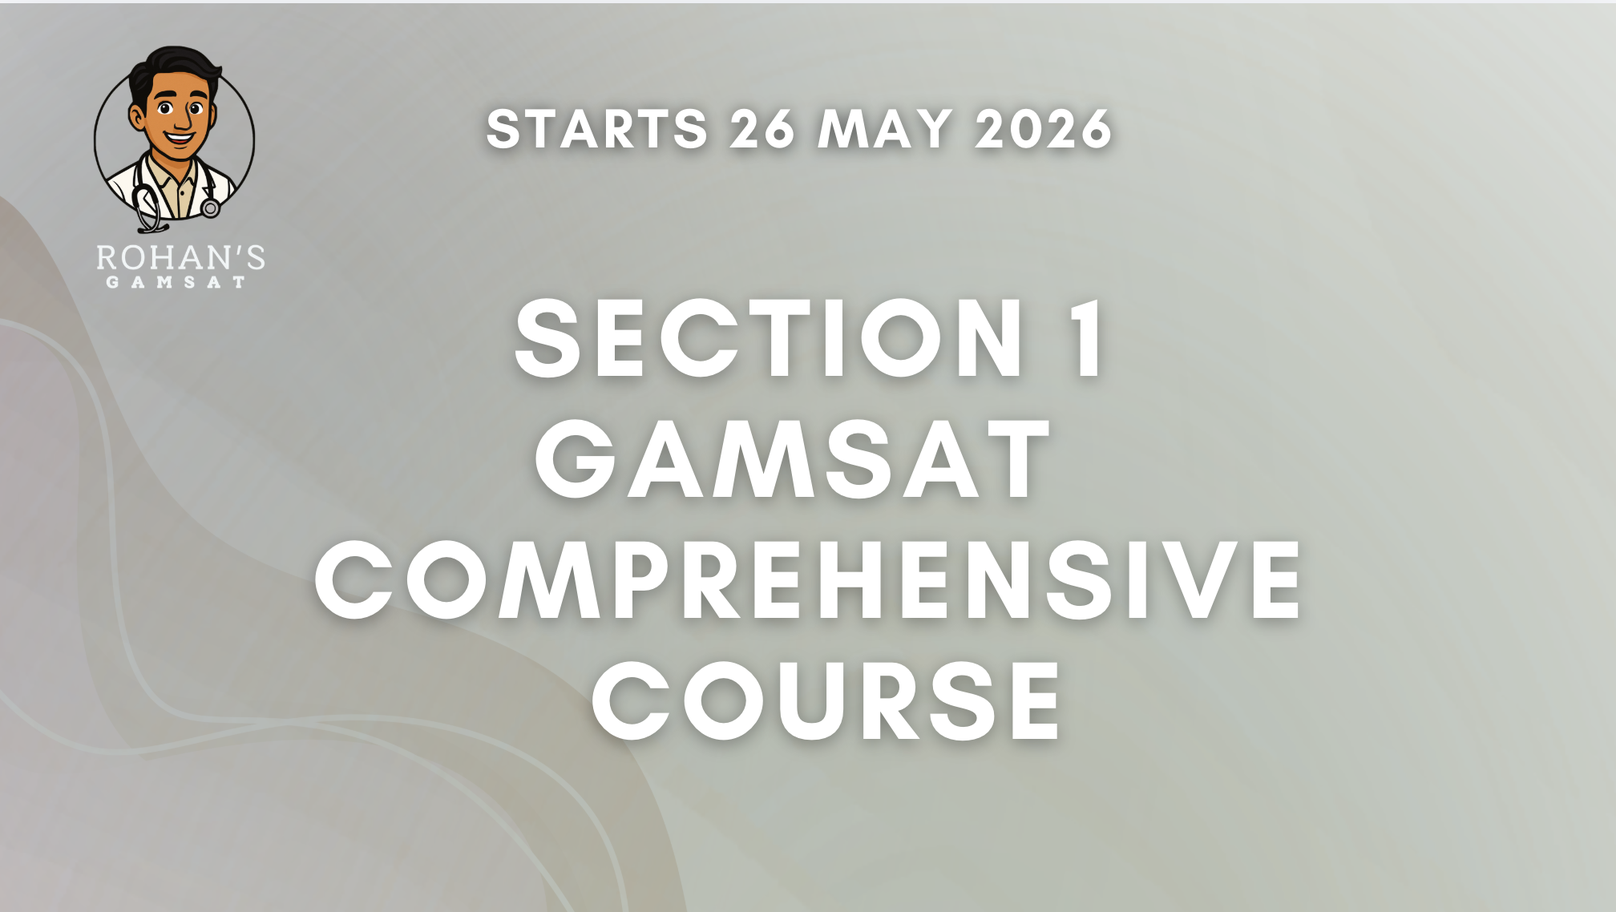
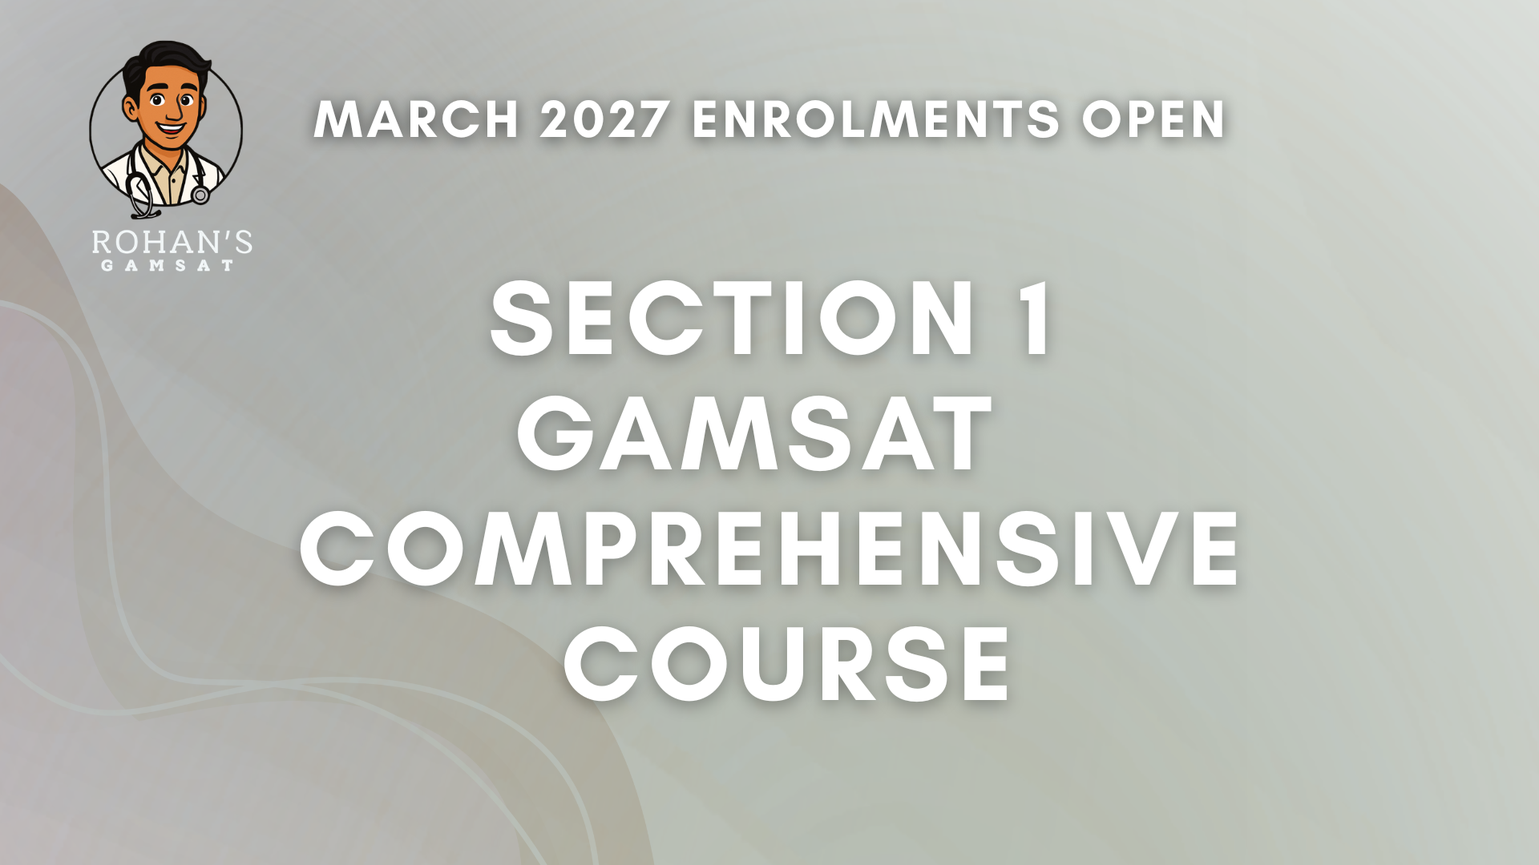
Update comprehensive course artwork and class counts
Replace the hero card images on the comprehensive, S1 and S2 course pages
with the new March 2027 artwork, as PNG and WebP. The new files are
smaller than the ones they replace.

Update class counts to the current structure: 12 per section and 24 across
the full course, previously 10 and 20, with duration following from ten
weeks to twelve. Applied to the three course pages, the homepage,
courses.html, mastery.html, blueprint.html, the catalog and the
comprehensive quiz email sequence.

Left alone: the private mentoring 10-class pack, a different product, and
the quiz's 10-week study plan, which is a plan rather than a course length.

diff --git a/courses/s1-comprehensive.html b/courses/s1-comprehensive.html
@@ -7,16 +7,16 @@
   <script src="/js/analytics.js" defer></script>
   <script src="/js/posthog-init.js" defer></script>
   <title>Section 1 GAMSAT Comprehensive Course | Rohan's GAMSAT</title>
-  <meta name="description" content="10 live Section 1 coaching classes, 250+ targeted S1 questions, 50+ hours of recorded content, and a 100% refund guarantee. June cohort starts 15 June 2026.">
+  <meta name="description" content="12 live Section 1 coaching classes, 250+ targeted S1 questions, 50+ hours of recorded content, and a 100% refund guarantee. June cohort starts 15 June 2026.">
   <meta property="og:title" content="Section 1 GAMSAT Comprehensive Course">
-  <meta property="og:description" content="10 live S1 coaching classes, 250+ targeted questions, 50+ hours of content, 100% refund guarantee. June cohort starts 15 June 2026.">
+  <meta property="og:description" content="12 live S1 coaching classes, 250+ targeted questions, 50+ hours of content, 100% refund guarantee. June cohort starts 15 June 2026.">
   <meta property="og:image" content="https://www.rohanstutoring.com/assets/rohan/rohan-square-background.webp">
   <meta property="og:url" content="https://www.rohanstutoring.com/courses/s1-comprehensive">
   <link rel="canonical" href="https://www.rohanstutoring.com/courses/s1-comprehensive">
   <meta property="og:type" content="product">
   <meta name="twitter:card" content="summary_large_image">
   <meta name="twitter:title" content="Section 1 GAMSAT Comprehensive Course">
-  <meta name="twitter:description" content="10 live S1 classes, 250+ targeted questions, 50+ hours of content, 100% refund guarantee. $999 AUD.">
+  <meta name="twitter:description" content="12 live S1 classes, 250+ targeted questions, 50+ hours of content, 100% refund guarantee. $999 AUD.">
   <meta name="twitter:image" content="https://www.rohanstutoring.com/assets/rohan/rohan-square-background.webp">
   <link rel="icon" href="../assets/favicon.ico">
   <link rel="icon" type="image/png" sizes="32x32" href="../assets/favicon-32x32.png">
@@ -35,7 +35,7 @@
     "@context": "https://schema.org",
     "@type": "Course",
     "name": "Section 1 GAMSAT Comprehensive Course",
-    "description": "10 live Section 1 coaching classes, 250+ targeted S1 questions, 50+ hours of recorded content, and a 100% refund guarantee. Small-cohort live instruction for the June 2026 cohort.",
+    "description": "12 live Section 1 coaching classes, 250+ targeted S1 questions, 50+ hours of recorded content, and a 100% refund guarantee. Small-cohort live instruction for the June 2026 cohort.",
     "url": "https://www.rohanstutoring.com/courses/s1-comprehensive",
     "provider": {
       "@type": "EducationalOrganization",
@@ -244,7 +244,7 @@
           <div class="product-hero__card-details">
             <div class="detail-row"><span>Cohort Starts</span><strong>15 June 2026</strong></div>
             <div class="detail-row"><span>Format</span><strong>Live online via Zoom</strong></div>
-            <div class="detail-row"><span>Duration</span><strong>10 weeks  10 live S1 classes</strong></div>
+            <div class="detail-row"><span>Duration</span><strong>12 weeks  12 live S1 classes</strong></div>
             <div class="detail-row"><span>Schedule</span><strong>Mondays  6pm AEST</strong></div>
             <div class="detail-row"><span>Cohort</span><strong>Small, intentionally limited</strong></div>
           </div>
@@ -405,7 +405,7 @@
         <div class="value-summary__inner">
           <div class="value-summary__stack">
             <div class="value-summary__row"><span>GAMSAT Library (50+ hrs)</span><span>$299</span></div>
-            <div class="value-summary__row"><span>10 Live S1 Classes</span><span>$600</span></div>
+            <div class="value-summary__row"><span>12 Live S1 Classes</span><span>$600</span></div>
             <div class="value-summary__row"><span>250+ S1 Questions</span><span>$149</span></div>
             <div class="value-summary__row"><span>Direct Access to Rohan</span><span>$499</span></div>
             <div class="value-summary__row"><span>Onboarding Call</span><span>$119</span></div>
@@ -432,7 +432,7 @@
         <div>
           <span class="upsell-band__eyebrow">Sitting both sections?</span>
           <h2>Get S1 + S2 together and save $299.</h2>
-          <p>Most students sit both sections. The full <strong>Comprehensive Course</strong> bundles 20 live classes (S1 + S2), live essay feedback, and the same library, all for $1,699, versus $1,998 if you enrol in both single-section courses separately.</p>
+          <p>Most students sit both sections. The full <strong>Comprehensive Course</strong> bundles 24 live classes (S1 + S2), live essay feedback, and the same library, all for $1,699, versus $1,998 if you enrol in both single-section courses separately.</p>
           <p class="upsell-band__price"><s>$999 + $999 = $1,998</s> &nbsp;&nbsp; <strong>Comprehensive: $1,699</strong></p>
         </div>
         <div class="upsell-band__cta">

diff --git a/courses/s2-comprehensive.html b/courses/s2-comprehensive.html
@@ -7,16 +7,16 @@
   <script src="/js/analytics.js" defer></script>
   <script src="/js/posthog-init.js" defer></script>
   <title>Section 2 GAMSAT Comprehensive Course | Rohan's GAMSAT</title>
-  <meta name="description" content="10 live Section 2 coaching classes, live essay feedback, 50+ hours of recorded content, and a 100% refund guarantee. June cohort starts 15 June 2026.">
+  <meta name="description" content="12 live Section 2 coaching classes, live essay feedback, 50+ hours of recorded content, and a 100% refund guarantee. June cohort starts 15 June 2026.">
   <meta property="og:title" content="Section 2 GAMSAT Comprehensive Course">
-  <meta property="og:description" content="10 live S2 coaching classes, live essay feedback, 50+ hours of content, 100% refund guarantee. June cohort starts 15 June 2026.">
+  <meta property="og:description" content="12 live S2 coaching classes, live essay feedback, 50+ hours of content, 100% refund guarantee. June cohort starts 15 June 2026.">
   <meta property="og:image" content="https://www.rohanstutoring.com/assets/rohan/rohan-square-background.webp">
   <meta property="og:url" content="https://www.rohanstutoring.com/courses/s2-comprehensive">
   <link rel="canonical" href="https://www.rohanstutoring.com/courses/s2-comprehensive">
   <meta property="og:type" content="product">
   <meta name="twitter:card" content="summary_large_image">
   <meta name="twitter:title" content="Section 2 GAMSAT Comprehensive Course">
-  <meta name="twitter:description" content="10 live S2 classes, live essay feedback, 50+ hours of content, 100% refund guarantee. $999 AUD.">
+  <meta name="twitter:description" content="12 live S2 classes, live essay feedback, 50+ hours of content, 100% refund guarantee. $999 AUD.">
   <meta name="twitter:image" content="https://www.rohanstutoring.com/assets/rohan/rohan-square-background.webp">
   <link rel="icon" href="../assets/favicon.ico">
   <link rel="icon" type="image/png" sizes="32x32" href="../assets/favicon-32x32.png">
@@ -35,7 +35,7 @@
     "@context": "https://schema.org",
     "@type": "Course",
     "name": "Section 2 GAMSAT Comprehensive Course",
-    "description": "10 live Section 2 coaching classes, live essay feedback, 50+ hours of recorded content, and a 100% refund guarantee. Small-cohort live instruction for the June 2026 cohort.",
+    "description": "12 live Section 2 coaching classes, live essay feedback, 50+ hours of recorded content, and a 100% refund guarantee. Small-cohort live instruction for the June 2026 cohort.",
     "url": "https://www.rohanstutoring.com/courses/s2-comprehensive",
     "provider": {
       "@type": "EducationalOrganization",
@@ -244,7 +244,7 @@
           <div class="product-hero__card-details">
             <div class="detail-row"><span>Cohort Starts</span><strong>18 June 2026</strong></div>
             <div class="detail-row"><span>Format</span><strong>Live online via Zoom</strong></div>
-            <div class="detail-row"><span>Duration</span><strong>10 weeks  10 live S2 classes</strong></div>
+            <div class="detail-row"><span>Duration</span><strong>12 weeks  12 live S2 classes</strong></div>
             <div class="detail-row"><span>Schedule</span><strong>Thursdays  6pm AEST</strong></div>
             <div class="detail-row"><span>Cohort</span><strong>Small, intentionally limited</strong></div>
           </div>
@@ -416,7 +416,7 @@
         <div class="value-summary__inner">
           <div class="value-summary__stack">
             <div class="value-summary__row"><span>GAMSAT Library (50+ hrs)</span><span>$299</span></div>
-            <div class="value-summary__row"><span>10 Live S2 Classes</span><span>$600</span></div>
+            <div class="value-summary__row"><span>12 Live S2 Classes</span><span>$600</span></div>
             <div class="value-summary__row"><span>Live Essay Feedback</span><span>$200</span></div>
             <div class="value-summary__row"><span>Direct Access to Rohan</span><span>$499</span></div>
             <div class="value-summary__row"><span>Onboarding Call</span><span>$119</span></div>
@@ -444,7 +444,7 @@
         <div>
           <span class="upsell-band__eyebrow">Sitting both sections?</span>
           <h2>Get S1 + S2 together and save $299.</h2>
-          <p>Most students sit both sections. The full <strong>Comprehensive Course</strong> bundles 20 live classes (S1 + S2), live essay feedback, and the same library, all for $1,699, versus $1,998 if you enrol in both single-section courses separately.</p>
+          <p>Most students sit both sections. The full <strong>Comprehensive Course</strong> bundles 24 live classes (S1 + S2), live essay feedback, and the same library, all for $1,699, versus $1,998 if you enrol in both single-section courses separately.</p>
           <p class="upsell-band__price"><s>$999 + $999 = $1,998</s> &nbsp;&nbsp; <strong>Comprehensive: $1,699</strong></p>
         </div>
         <div class="upsell-band__cta">

diff --git a/courses/comprehensive.html b/courses/comprehensive.html
@@ -7,16 +7,16 @@
   <script src="/js/analytics.js" defer></script>
   <script src="/js/posthog-init.js" defer></script>
   <title>GAMSAT Live Comprehensive Course | Rohan's GAMSAT</title>
-  <meta name="description" content="20 live coaching classes, essay feedback, 50+ hours of content, and a 100% refund guarantee. Make September 2026 your final GAMSAT sitting.">
+  <meta name="description" content="24 live coaching classes, essay feedback, 50+ hours of content, and a 100% refund guarantee. Make September 2026 your final GAMSAT sitting.">
   <meta property="og:title" content="GAMSAT Live Comprehensive Course: Make September 2026 Your Final Sitting">
-  <meta property="og:description" content="20 live coaching classes, essay feedback, 50+ hours of content, and a 100% refund guarantee. Make September 2026 your final GAMSAT sitting.">
+  <meta property="og:description" content="24 live coaching classes, essay feedback, 50+ hours of content, and a 100% refund guarantee. Make September 2026 your final GAMSAT sitting.">
   <meta property="og:image" content="https://www.rohanstutoring.com/assets/rohan/rohan-square-background.webp">
   <meta property="og:url" content="https://www.rohanstutoring.com/courses/comprehensive">
   <link rel="canonical" href="https://www.rohanstutoring.com/courses/comprehensive">
   <meta property="og:type" content="product">
   <meta name="twitter:card" content="summary_large_image">
   <meta name="twitter:title" content="GAMSAT Live Comprehensive Course: Make September 2026 Your Final Sitting">
-  <meta name="twitter:description" content="20 live classes, essay feedback, 50+ hours of content, 100% refund guarantee. $1,699 AUD.">
+  <meta name="twitter:description" content="24 live classes, essay feedback, 50+ hours of content, 100% refund guarantee. $1,699 AUD.">
   <meta name="twitter:image" content="https://www.rohanstutoring.com/assets/rohan/rohan-square-background.webp">
   <link rel="icon" href="../assets/favicon.ico">
   <link rel="icon" type="image/png" sizes="32x32" href="../assets/favicon-32x32.png">
@@ -399,7 +399,7 @@
     "@context": "https://schema.org",
     "@type": "Course",
     "name": "GAMSAT Live Comprehensive Course",
-    "description": "20 live coaching classes, essay feedback, 50+ hours of content, and a 100% refund guarantee. Covers GAMSAT Sections 1 and 2 with small, focused live instruction starting 15 June 2026.",
+    "description": "24 live coaching classes, essay feedback, 50+ hours of content, and a 100% refund guarantee. Covers GAMSAT Sections 1 and 2 with small, focused live instruction starting 15 June 2026.",
     "url": "https://www.rohanstutoring.com/courses/comprehensive",
     "provider": {
       "@type": "EducationalOrganization",
@@ -654,8 +654,8 @@
             <img src="/assets/courses/comprehensive-course-card.webp" alt="GAMSAT Live Comprehensive Course" width="960" height="540" loading="eager" fetchpriority="high">
           </div>
           <div class="hero-v3__card-head">
-            <span class="hero-v3__card-eyebrow">10 weeks  20 live classes</span>
-            <h2>What the ten weeks actually look like.</h2>
+            <span class="hero-v3__card-eyebrow">12 weeks  24 live classes</span>
+            <h2>What the twelve weeks actually look like.</h2>
           </div>
           <ol class="hero-v3__roadmap">
             <li>
@@ -813,7 +813,7 @@
             <div class="value-item__num">02</div>
           </div>
           <div class="value-item__body">
-            <h3>20 Live Coaching Classes, Starting 15 June</h3>
+            <h3>24 Live Coaching Classes, Starting 15 June</h3>
             <p>20 live sessions on Zoom, each 1 hour. Mondays for S1 at 6pm AEST, starting 15 June. Thursdays for S2 at 6pm AEST, starting 18 June. Classes stay small and focused, so every session is genuinely interactive. You can ask questions, clear up what's not landing, and leave each session with something concrete.</p>
             <span class="value-item__value">Value: $1,200</span>
           </div>
@@ -859,7 +859,7 @@
         <div class="value-summary__inner">
           <div class="value-summary__stack">
             <div class="value-summary__row"><span>GAMSAT Library (50+ hrs)</span><span>$299</span></div>
-            <div class="value-summary__row"><span>20 Live Classes</span><span>$1,200</span></div>
+            <div class="value-summary__row"><span>24 Live Classes</span><span>$1,200</span></div>
             <div class="value-summary__row"><span>250+ S1 Questions</span><span>$149</span></div>
             <div class="value-summary__row"><span>Live Essay Feedback</span><span>$200</span></div>
             <div class="value-summary__row"><span>Direct Access to Rohan</span><span>$999</span></div>

diff --git a/courses/blueprint.html b/courses/blueprint.html
@@ -82,7 +82,7 @@
         "name": "What's the difference between this and the Comprehensive Course?",
         "acceptedAnswer": {
           "@type": "Answer",
-          "text": "The Blueprint is entirely self-paced. You watch, study, and apply on your own schedule. The Comprehensive Course adds 20 live coaching classes, real-time essay feedback, and direct access to Rohan. If you need accountability and live coaching, the Comprehensive Course is the better fit."
+          "text": "The Blueprint is entirely self-paced. You watch, study, and apply on your own schedule. The Comprehensive Course adds 24 live coaching classes, real-time essay feedback, and direct access to Rohan. If you need accountability and live coaching, the Comprehensive Course is the better fit."
         }
       },
       {
@@ -483,7 +483,7 @@
       <div class="faq__list">
         <details class="faq__item reveal"><summary>How long do I have access?</summary><div class="faq__answer"><p>Lifetime. Once you purchase, the content is yours. No subscription, no expiry. Come back for your next sitting or revisit sections whenever you need.</p></div></details>
         <details class="faq__item reveal reveal--delay-1"><summary>Is this suitable if I've never sat the GAMSAT before?</summary><div class="faq__answer"><p>Yes. The S1 & S2 Mastery Course inside the Blueprint starts from the foundations. The Advanced Series builds on that, so the progression is built in.</p></div></details>
-        <details class="faq__item reveal reveal--delay-2"><summary>What's the difference between this and the Comprehensive Course?</summary><div class="faq__answer"><p>The Blueprint is entirely self-paced. You watch, study, and apply on your own schedule. The Comprehensive Course adds 20 live coaching classes, real-time essay feedback, and direct access to Rohan. If you need accountability and live coaching, the Comprehensive Course is the better fit.</p></div></details>
+        <details class="faq__item reveal reveal--delay-2"><summary>What's the difference between this and the Comprehensive Course?</summary><div class="faq__answer"><p>The Blueprint is entirely self-paced. You watch, study, and apply on your own schedule. The Comprehensive Course adds 24 live coaching classes, real-time essay feedback, and direct access to Rohan. If you need accountability and live coaching, the Comprehensive Course is the better fit.</p></div></details>
         <details class="faq__item reveal reveal--delay-3"><summary>Can I access it on my phone or tablet?</summary><div class="faq__answer"><p>Yes. The content streams on any device.</p></div></details>
       </div>
     </div>

diff --git a/courses.html b/courses.html
@@ -139,9 +139,9 @@
                 <span class="badge badge--green">Starts 15 June</span>
               </div>
               <h3>GAMSAT Live Comprehensive Course</h3>
-              <p>20 live coaching classes. Essay feedback. 50+ hours of recorded content. The full system for S1 and S2, with the new cohort starting 15 June.</p>
+              <p>24 live coaching classes. Essay feedback. 50+ hours of recorded content. The full system for S1 and S2, with the new cohort starting 15 June.</p>
               <div class="hero-promo-card__includes">
-                <span>✓ 20 live classes</span>
+                <span>✓ 24 live classes</span>
                 <span>✓ Essay feedback</span>
                 <span>✓ 50+ hr library</span>
                 <span>✓ 100% refund guarantee</span>
@@ -267,7 +267,7 @@
             <div class="course-tile__body">
               <span class="course-tile__tag">Live  June Cohort</span>
               <h3>Section 1 Comprehensive Course</h3>
-              <p>10 live S1 classes, 250+ targeted questions, 50+ hour library, refund guarantee. Mondays 6pm AEST.</p>
+              <p>12 live S1 classes, 250+ targeted questions, 50+ hour library, refund guarantee. Mondays 6pm AEST.</p>
               <div class="course-tile__footer">
                 <span class="course-tile__price">$999</span>
                 <span class="course-tile__cta">View Course →</span>
@@ -285,7 +285,7 @@
             <div class="course-tile__body">
               <span class="course-tile__tag">Live  June Cohort</span>
               <h3>Section 2 Comprehensive Course</h3>
-              <p>10 live S2 classes, live essay feedback, 50+ hour library, refund guarantee. Thursdays 6pm AEST.</p>
+              <p>12 live S2 classes, live essay feedback, 50+ hour library, refund guarantee. Thursdays 6pm AEST.</p>
               <div class="course-tile__footer">
                 <span class="course-tile__price">$999</span>
                 <span class="course-tile__cta">View Course →</span>

diff --git a/courses/mastery.html b/courses/mastery.html
@@ -85,7 +85,7 @@
         "name": "What's included from the Comprehensive Course?",
         "acceptedAnswer": {
           "@type": "Answer",
-          "text": "Everything. All 20 live classes (S1 and S2), the same 50+ hour Blueprint library delivered via Google Drive, 250+ targeted S1 questions, live essay feedback sessions, and direct coaching access throughout."
+          "text": "Everything. All 24 live classes (S1 and S2), the same 50+ hour Blueprint library delivered via Google Drive, 250+ targeted S1 questions, live essay feedback sessions, and direct coaching access throughout."
         }
       },
       {
@@ -365,7 +365,7 @@
         <div class="mastery-foundation__grid">
           <div class="mastery-foundation__item">
             <span class="mastery-foundation__check">✓</span>
-            <span>20 live coaching classes (S1 + S2)</span>
+            <span>24 live coaching classes (S1 + S2)</span>
           </div>
           <div class="mastery-foundation__item">
             <span class="mastery-foundation__check">✓</span>
@@ -582,7 +582,7 @@
         </details>
         <details class="faq__item reveal reveal--delay-3">
           <summary>What's included from the Comprehensive Course?</summary>
-          <div class="faq__answer"><p>Everything. All 20 live classes (S1 and S2), the same 50+ hour Blueprint library delivered via Google Drive, 250+ targeted S1 questions, live essay feedback sessions, the Expert Essay Collection, and direct coaching access throughout.</p></div>
+          <div class="faq__answer"><p>Everything. All 24 live classes (S1 and S2), the same 50+ hour Blueprint library delivered via Google Drive, 250+ targeted S1 questions, live essay feedback sessions, the Expert Essay Collection, and direct coaching access throughout.</p></div>
         </details>
         <details class="faq__item reveal reveal--delay-4">
           <summary>How does the refund guarantee work?</summary>

diff --git a/index.html b/index.html
@@ -566,7 +566,7 @@
           <p class="course-tier__includes">Everything in Rohan's GAMSAT Blueprint, plus:</p>
           <ul class="course-tier__features">
             <li class="course-tier__feature--highlight"><svg width="16" height="16" fill="none" viewBox="0 0 24 24"><path stroke="currentColor" stroke-width="2" stroke-linecap="round" stroke-linejoin="round" d="M20 6L9 17l-5-5"/></svg>All 80+ hours of Blueprint content included</li>
-            <li><svg width="16" height="16" fill="none" viewBox="0 0 24 24"><path stroke="currentColor" stroke-width="2" stroke-linecap="round" stroke-linejoin="round" d="M20 6L9 17l-5-5"/></svg>20 live classes across 10 weeks keep you on track</li>
+            <li><svg width="16" height="16" fill="none" viewBox="0 0 24 24"><path stroke="currentColor" stroke-width="2" stroke-linecap="round" stroke-linejoin="round" d="M20 6L9 17l-5-5"/></svg>24 live classes across 12 weeks keep you on track</li>
             <li><svg width="16" height="16" fill="none" viewBox="0 0 24 24"><path stroke="currentColor" stroke-width="2" stroke-linecap="round" stroke-linejoin="round" d="M20 6L9 17l-5-5"/></svg>Rohan marks your essays and tells you exactly what to fix</li>
             <li><svg width="16" height="16" fill="none" viewBox="0 0 24 24"><path stroke="currentColor" stroke-width="2" stroke-linecap="round" stroke-linejoin="round" d="M20 6L9 17l-5-5"/></svg>Small cohort so you get real attention, not generic notes</li>
           </ul>

diff --git a/js/catalog.js b/js/catalog.js
@@ -219,7 +219,7 @@
       tagline: '',
       features: [
         '50+ hours of recorded library content',
-        '20 live coaching classes',
+        '24 live coaching classes',
         'Live essay feedback in every class',
         'Direct access to Rohan',
         '100% refund guarantee',

diff --git a/docs/email-sequences/comprehensive-quiz-result-sequence.md b/docs/email-sequences/comprehensive-quiz-result-sequence.md
@@ -13,7 +13,7 @@ Sequence goal: move qualified quiz leads from "I need a serious plan" to enrolme
 Source facts used from the site:
 
 - 12 weeks
-- 20 live classes
+- 24 live classes
 - 50+ hours of recorded teaching
 - Weekly live structure across S1 and S2
 - Tuesdays 6pm, currently described on the site as AEDT
@@ -79,7 +79,7 @@ You have enough runway to make real movement before the exam. A quick PDF or a f
 
 The gap is closeable. But it needs structure.
 
-The Comprehensive Course is built for that middle zone where you are serious, but not quite where you want to be yet. You get 12 weeks of live coaching, 20 live classes, 50+ hours of recorded teaching, monthly essay feedback from Rohan, and small, focused classes where you can actually ask questions.
+The Comprehensive Course is built for that middle zone where you are serious, but not quite where you want to be yet. You get 12 weeks of live coaching, 24 live classes, 50+ hours of recorded teaching, monthly essay feedback from Rohan, and small, focused classes where you can actually ask questions.
 
 The point is not to drown you in more content.
 
@@ -323,7 +323,7 @@ That is what the course is for.
 
 12 weeks.
 
-20 live classes.
+24 live classes.
 
 50+ hours of recorded teaching.
 
